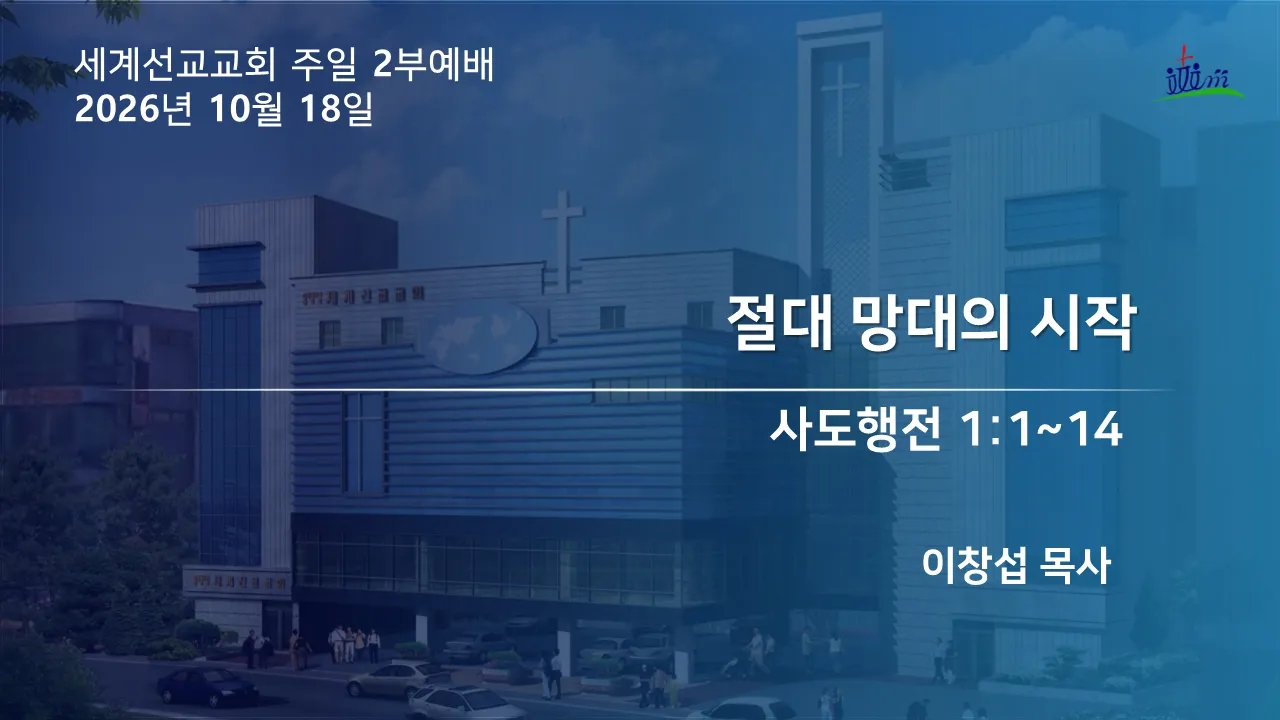
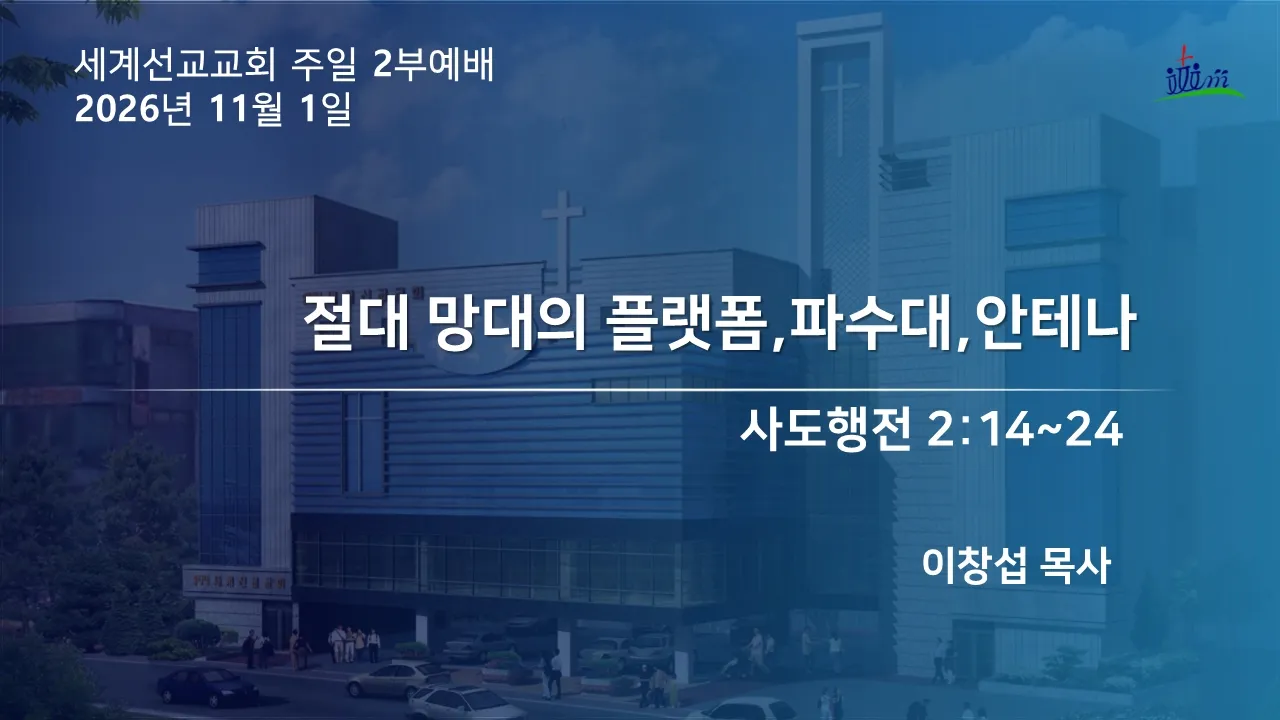
Keep the sermon archive aligned with the official channel
Constraint: Publish only official metadata that parses without warnings

Confidence: high

Scope-risk: narrow

Directive: Leave incomplete or ambiguous videos for manual review

Tested: npm run youtube:test

Not-tested: Live rendering is handled by the deploy workflow

diff --git a/site/src/content/sermons/2026-11-01-ouyf37fkeug.md b/site/src/content/sermons/2026-11-01-ouyf37fkeug.md
@@ -1,0 +1,10 @@
+---
+title: "절대망대의 플랫폼, 파수대, 안테나"
+date: 2026-11-01
+scripture: "사도행전 2:14–24"
+scriptureShort: "행 2:14–24"
+preacher: "이창섭 목사"
+youtube: "https://www.youtube.com/watch?v=ouyf37fkeug"
+---
+
+주일예배 말씀입니다.
